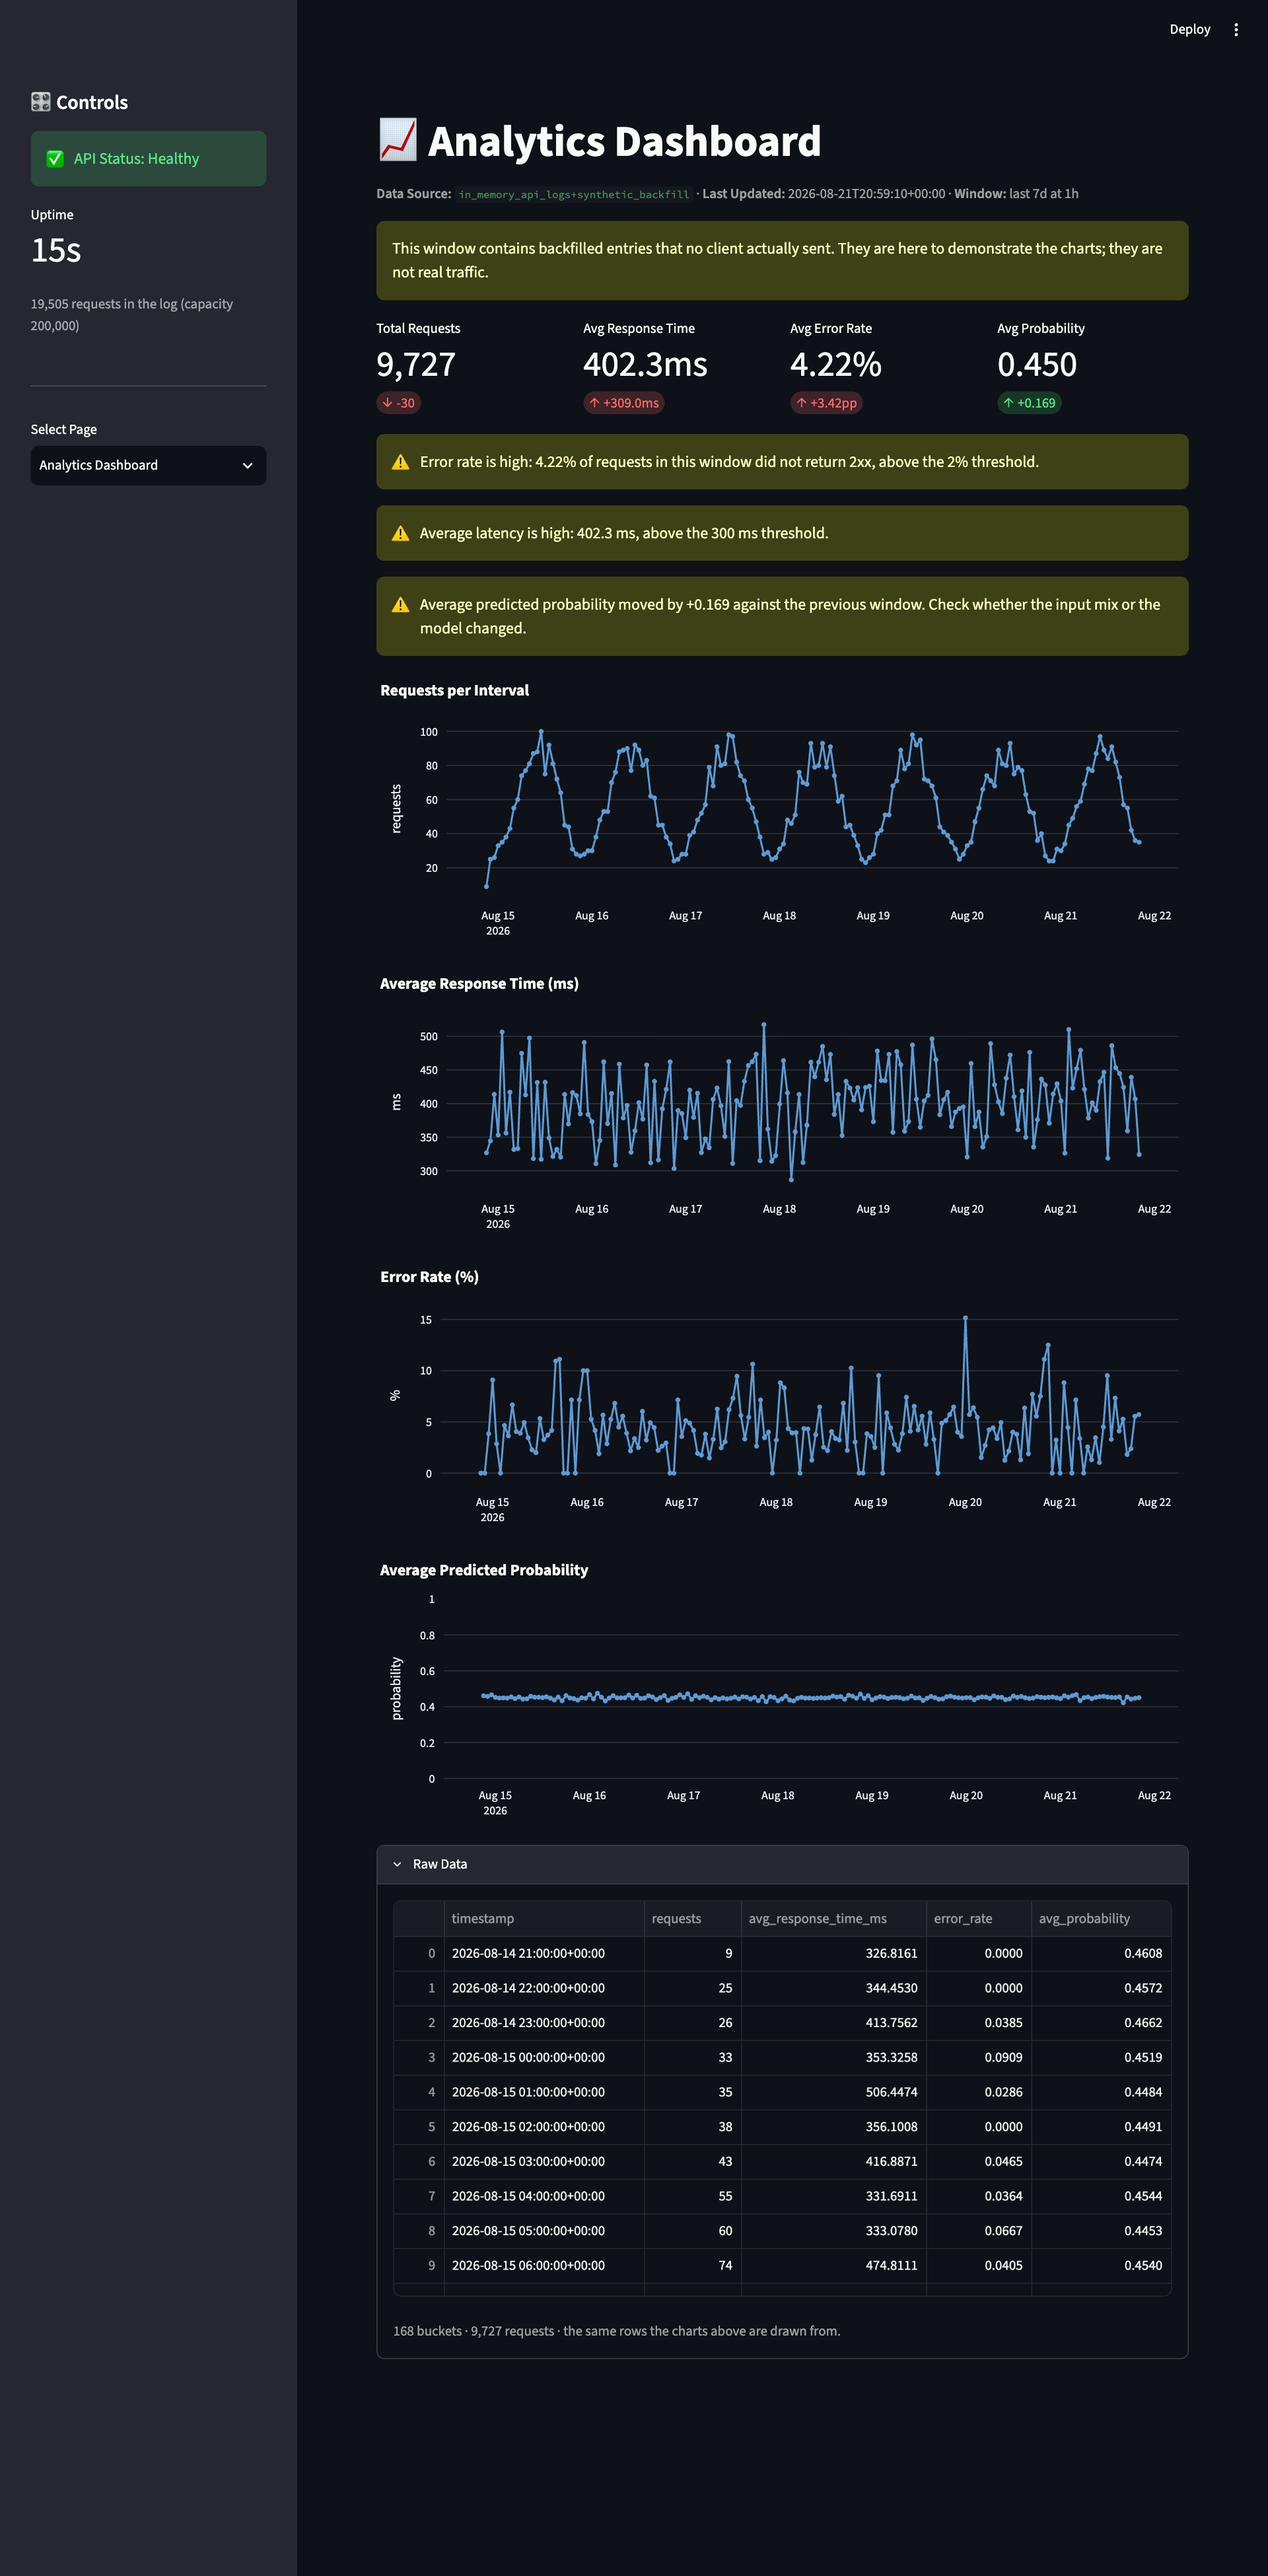
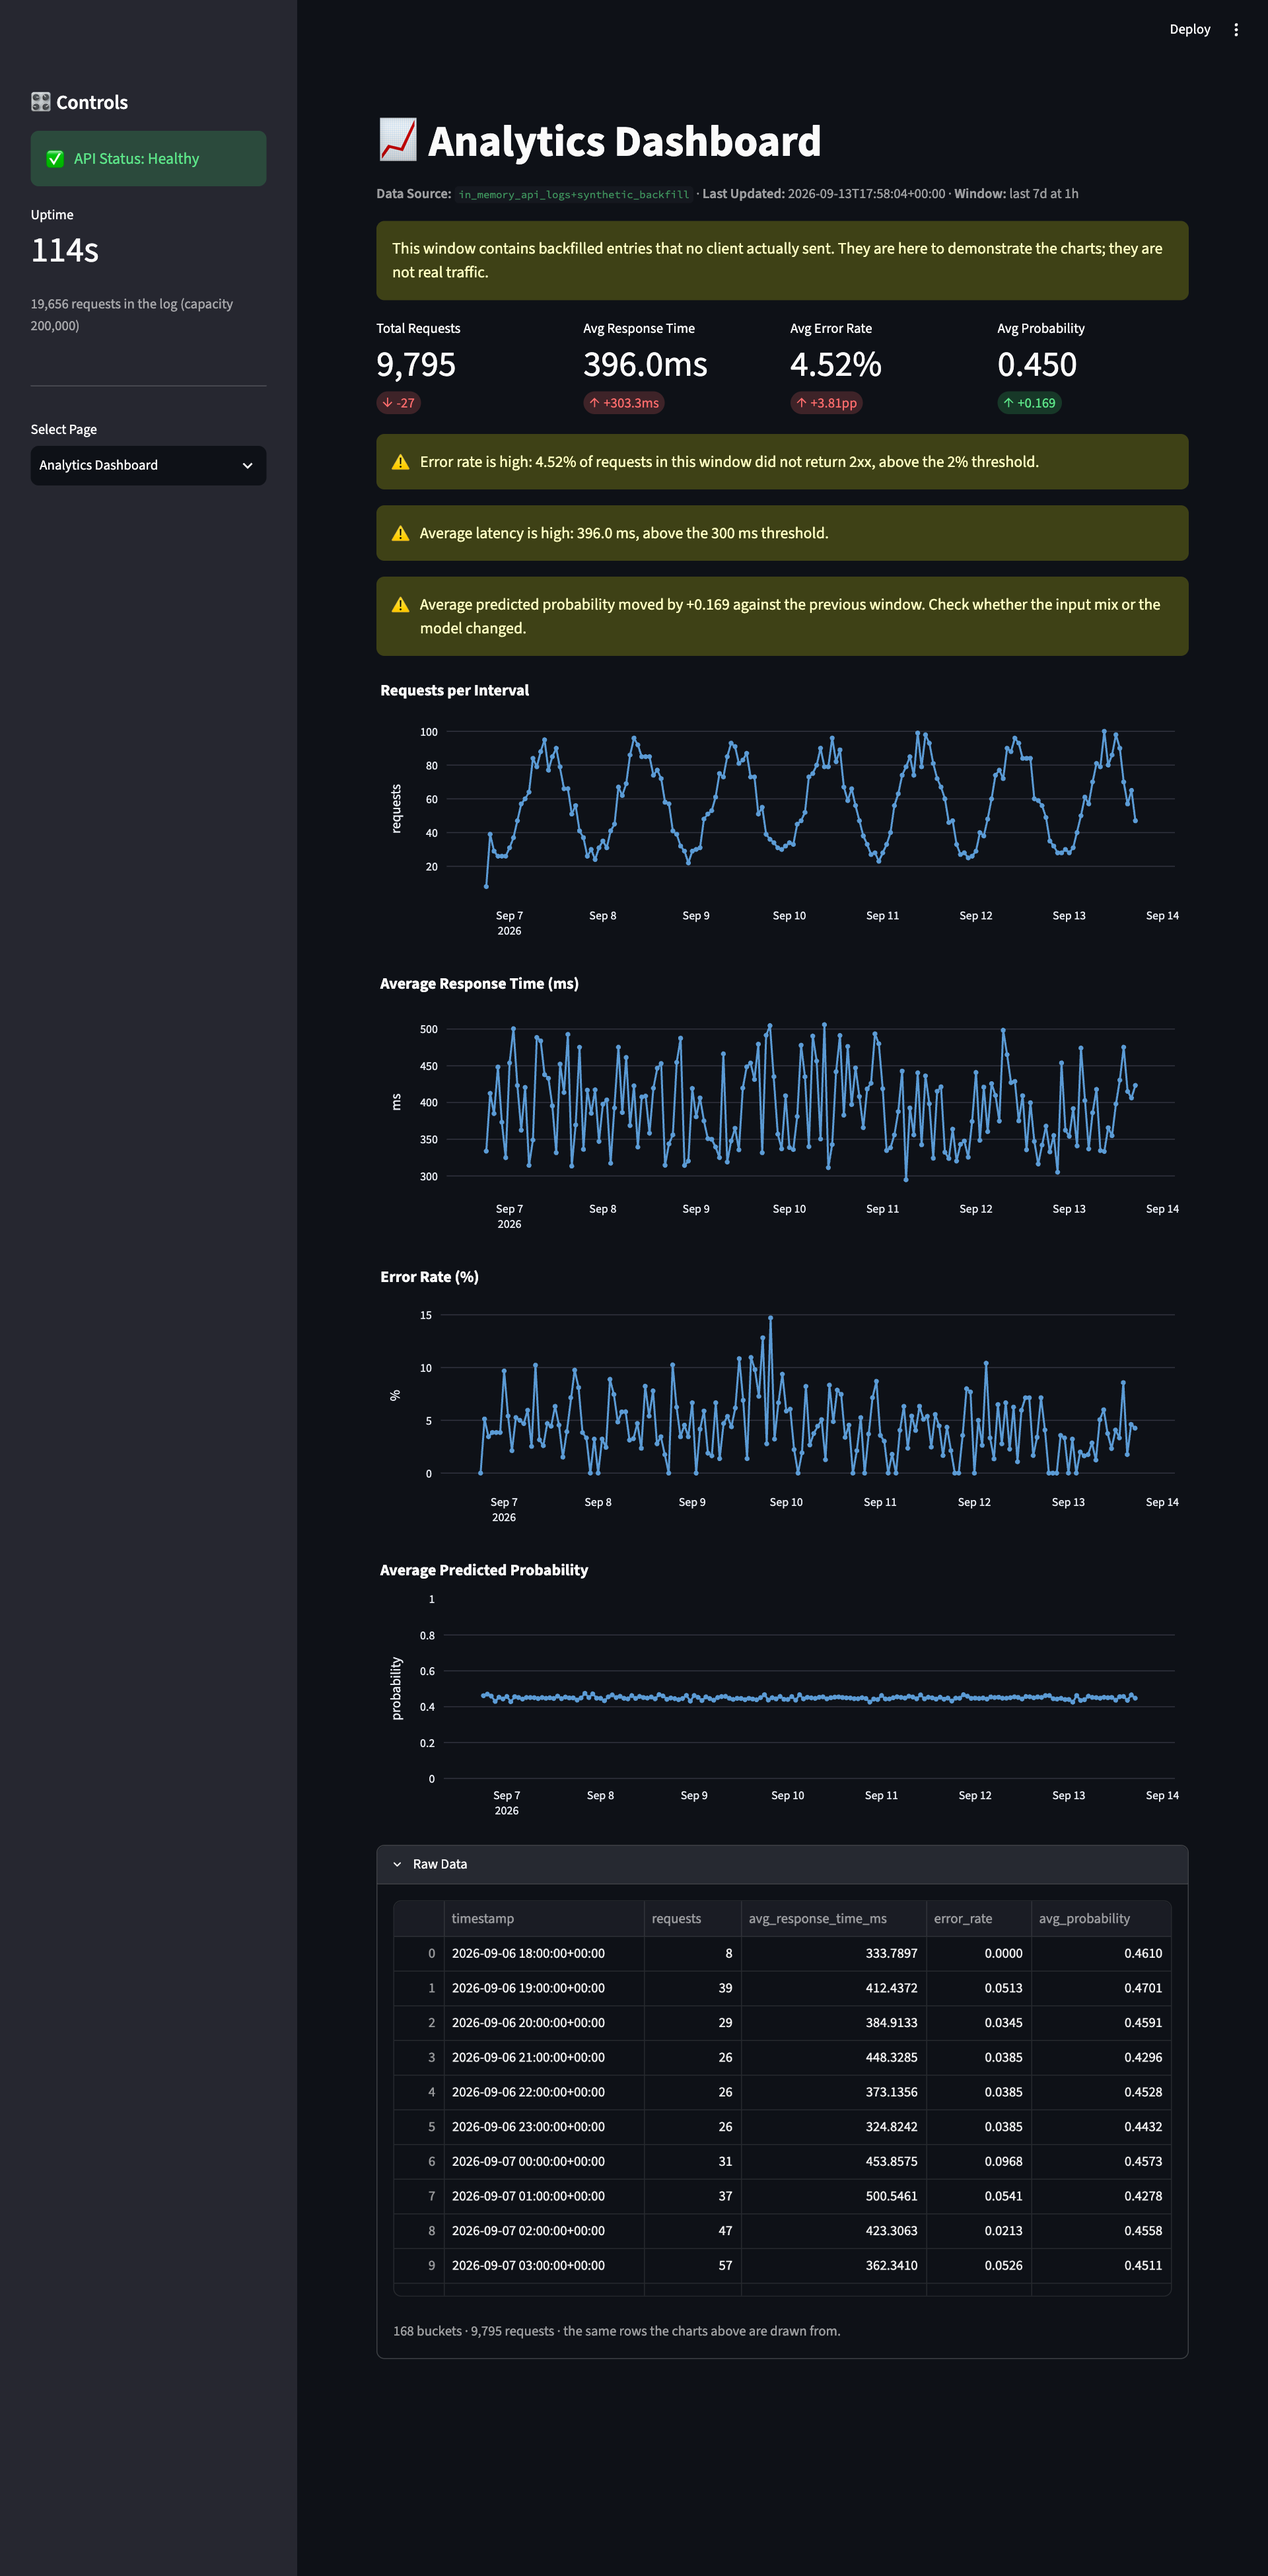
Rename the system to RankShift Serving
The four services are the serving stack behind RankShift and now carry
its name: page titles, API titles, package docstrings, specs and README
headers. Screenshots re-captured from the running apps.

diff --git a/app.py b/app.py
@@ -38,7 +38,7 @@ ERROR_RATE_ALERT = 0.02
 RESPONSE_TIME_ALERT_MS = 300.0
 PROBABILITY_DRIFT_ALERT = 0.1
 
-st.set_page_config(page_title="Cognitive Shorts", page_icon="📈", layout="wide")
+st.set_page_config(page_title="RankShift Serving", page_icon="🎯", layout="wide")
 
 
 def call_api(path: str, params: dict[str, Any] | None = None) -> dict[str, Any]:

diff --git a/src/analytics_dashboard/api.py b/src/analytics_dashboard/api.py
@@ -213,7 +213,7 @@ def create_app(
     store: RequestLogStore | None = None,
 ) -> FastAPI:
     app = FastAPI(
-        title="Cognitive Shorts — Analytics API",
+        title="RankShift Serving — Analytics API",
         version=__version__,
         description="Prediction service with in-memory request analytics.",
     )

diff --git a/src/analytics_dashboard/__init__.py b/src/analytics_dashboard/__init__.py
@@ -1,3 +1,3 @@
-"""Request analytics for the Cognitive Shorts prediction service."""
+"""Request analytics for the RankShift Serving prediction service."""
 
 __version__ = "1.0.0"

diff --git a/docs/SPEC.md b/docs/SPEC.md
@@ -4,7 +4,7 @@
 
 ### 1.1 Page Purpose 
 
-Analytics Dashboard is a system monitoring and analysis module within the Cognitive Shorts system front-end UI (built on Streamlit). This page displays how the back-end recommendation service has been running over a period of time, including request volume, average response time, error rate and the trend of the model output probability, so that it can be judged quickly whether the system is running normally. 
+Analytics Dashboard is a system monitoring and analysis module within the RankShift Serving system front-end UI (built on Streamlit). This page displays how the back-end recommendation service has been running over a period of time, including request volume, average response time, error rate and the trend of the model output probability, so that it can be judged quickly whether the system is running normally. 
 
 ### 1.2 Page Goals 
 

diff --git a/README.md b/README.md
@@ -2,7 +2,7 @@
 
 [![tests](https://github.com/PSCRedefine/AnalyticsDashboard/actions/workflows/tests.yml/badge.svg)](https://github.com/PSCRedefine/AnalyticsDashboard/actions/workflows/tests.yml)
 
-Traffic and model-output monitoring for the **Cognitive Shorts** prediction
+Traffic and model-output monitoring for the **RankShift Serving** prediction
 service: a FastAPI middleware that records every request it serves, two
 aggregation endpoints over that log, and a Streamlit page that turns them into
 four numbers and four charts.
